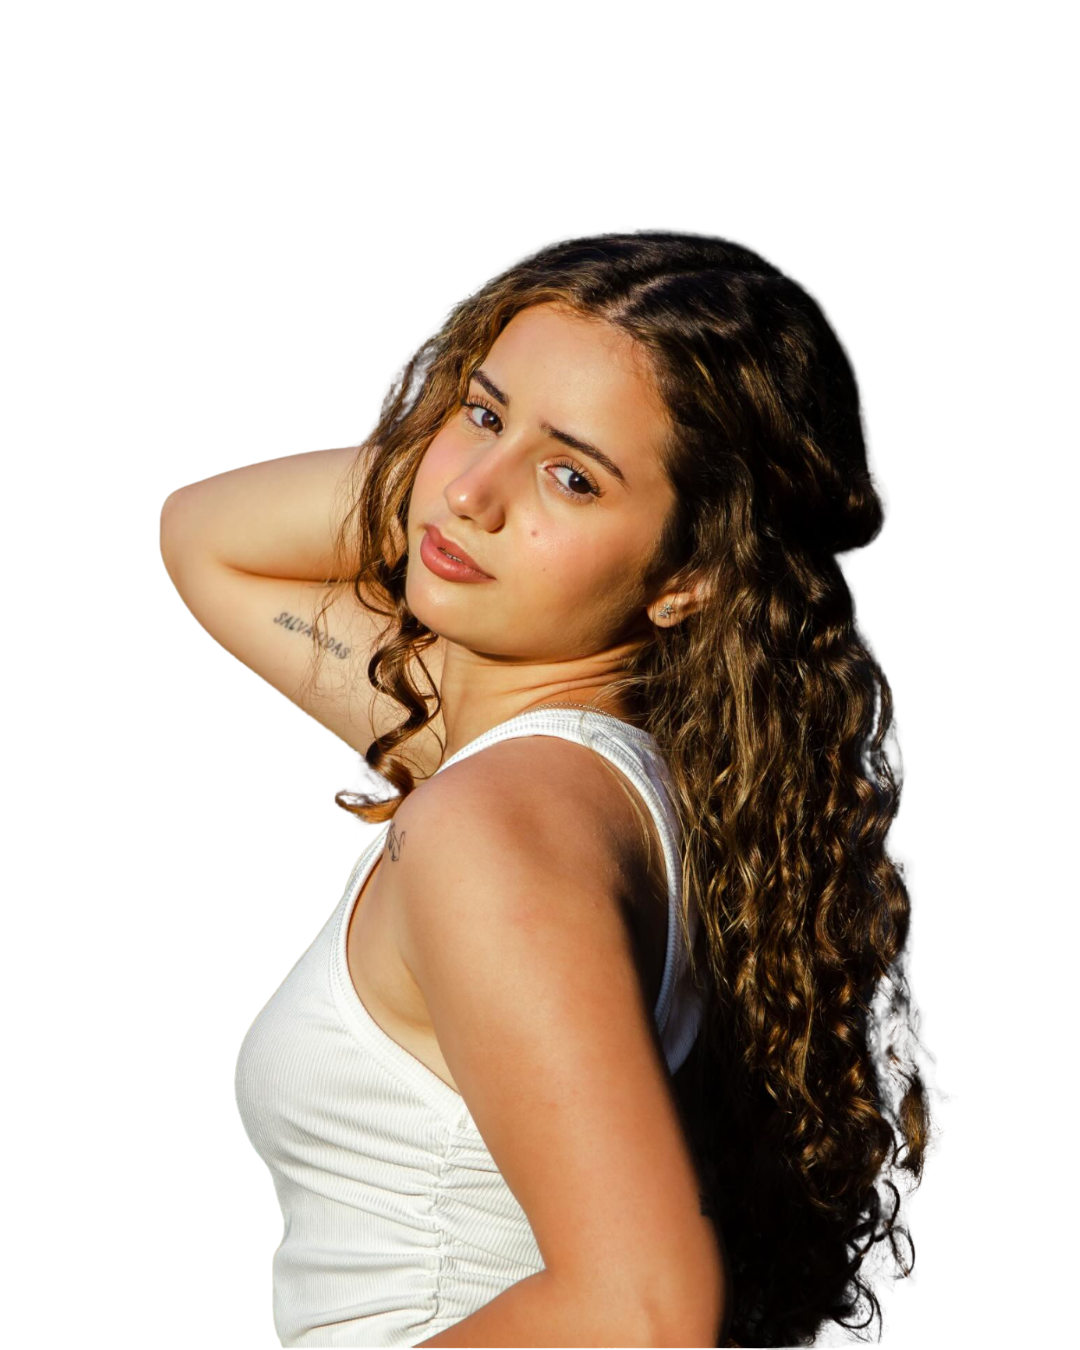
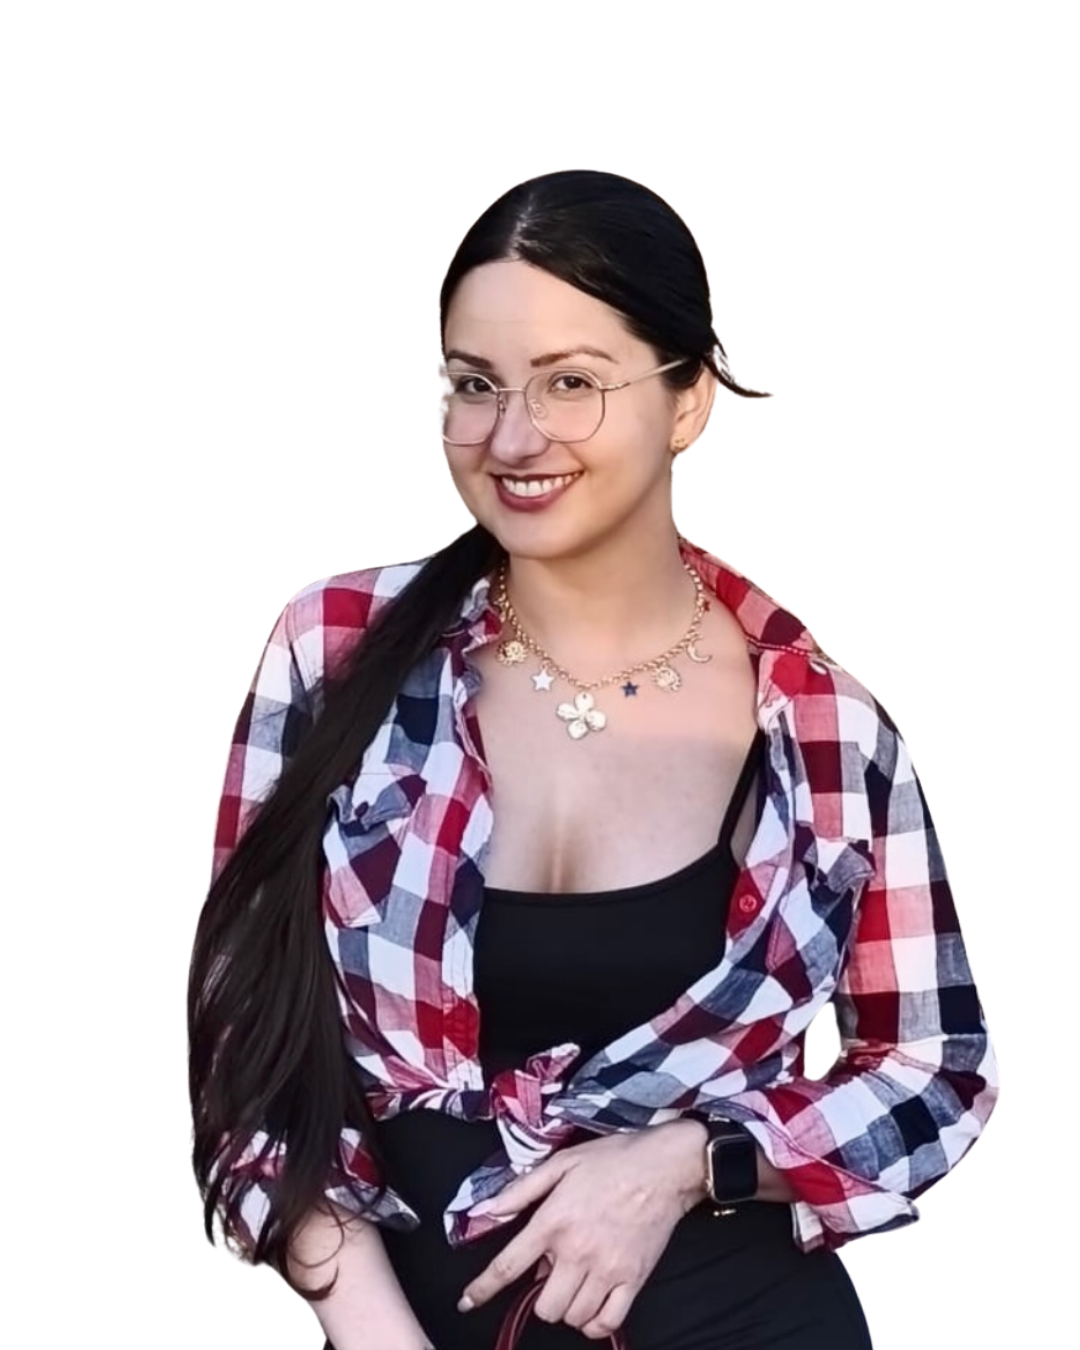
Update index.html to integrate Supabase for voting functionality, add fingerprint tracking, and enhance modal feedback for user interactions. Update .DS_Store files and image assets.

diff --git a/categorias/index.html b/categorias/index.html
@@ -19,6 +19,9 @@
     <meta name="twitter:title" content="Categorías — Cuba Content Awards">
     <meta name="twitter:image" content="/assets/images/og.png">
 
+    <script src="https://cdn.jsdelivr.net/npm/@supabase/supabase-js@2"></script>
+    <script src="https://openfpcdn.io/fingerprintjs/v4"></script>
+
     <style>
     @font-face {
         font-family: "Cal Sans";
@@ -608,29 +611,59 @@ const categorias = [
     },
 ];
 
+// ====== CONFIGURACIÓN ======
+// Cuando llegue el momento de abrir las votaciones oficialmente, cambia esto a true.
+const VOTACIONES_ABIERTAS = false;
+
+const SUPABASE_URL = 'https://ravkrqelszcjbrckgqum.supabase.co';
+const SUPABASE_KEY = 'sb_publishable_vgJitsj5SlLr91hrfdT7-w_JUb4g5R1';
+const _supabase = supabase.createClient(SUPABASE_URL, SUPABASE_KEY);
+
 // ====== ESTADO ======
 let activeCategoria = categorias[0].id;
 let selectedNominee = null;
+let fingerprint = null;
+let votosLocales = {}; // cache en memoria: { categoriaId: nominadoId }
 
-// Votos ya emitidos (localStorage — placeholder temporal, se sustituirá por sistema seguro)
-function getVotedCategorias() {
+// ====== FINGERPRINT ======
+async function initFingerprint() {
     try {
-        return JSON.parse(localStorage.getItem('cca_votos') || '{}');
-    } catch (e) { return {}; }
+        const fp = await FingerprintJS.load();
+        const result = await fp.get();
+        fingerprint = result.visitorId;
+    } catch (e) {
+        console.error('Error generando fingerprint:', e);
+        // Fallback simple si la librería falla por algún motivo
+        fingerprint = 'fallback-' + Math.random().toString(36).substring(2);
+    }
 }
-function setVoted(catId, nomineeId) {
-    const votos = getVotedCategorias();
-    votos[catId] = nomineeId;
-    localStorage.setItem('cca_votos', JSON.stringify(votos));
+
+// ====== CARGAR VOTOS YA EMITIDOS POR ESTE FINGERPRINT ======
+async function cargarVotosPropios() {
+    if (!fingerprint) return;
+    try {
+        const { data, error } = await _supabase
+            .from('votos')
+            .select('categoria, nominado_id')
+            .eq('fingerprint', fingerprint);
+
+        if (error) throw error;
+
+        votosLocales = {};
+        (data || []).forEach(v => {
+            votosLocales[v.categoria] = v.nominado_id;
+        });
+    } catch (e) {
+        console.error('Error cargando votos:', e);
+    }
 }
 
 // ====== RENDER PILLS ======
 function renderPills() {
     const wrap = document.getElementById('catPills');
-    const votos = getVotedCategorias();
     wrap.innerHTML = '';
     categorias.forEach(cat => {
-        const voted = !!votos[cat.id];
+        const voted = !!votosLocales[cat.id];
         const isActive = cat.id === activeCategoria;
         const pill = document.createElement('button');
         pill.className = 'cat-pill' + (isActive ? ' active' : '') + (voted ? ' voted' : '');
@@ -643,8 +676,7 @@ function renderPills() {
 // ====== RENDER NOMINEES ======
 function renderNominees() {
     const cat = categorias.find(c => c.id === activeCategoria);
-    const votos = getVotedCategorias();
-    const votedNomineeId = votos[cat.id] || null;
+    const votedNomineeId = votosLocales[cat.id] || null;
     const isLocked = !!votedNomineeId;
 
     document.getElementById('catTitle').textContent = cat.nombre;
@@ -676,7 +708,6 @@ function renderNominees() {
         grid.appendChild(card);
     });
 
-    // Reset selection bar if locked
     if (isLocked) {
         selectedNominee = null;
         hideVoteBar();
@@ -712,17 +743,91 @@ function hideVoteBar() {
 }
 
 // ====== CONFIRM VOTE ======
-function confirmVote() {
+async function confirmVote() {
     if (!selectedNominee) return;
-    // Por ahora las votaciones no están abiertas — mostramos el modal informativo.
-    // Cuando se abran oficialmente, aquí se llamará a Supabase para registrar el voto real
-    // y luego se ejecutaría: setVoted(activeCategoria, selectedNominee.id); renderPills(); renderNominees();
-    openModal();
+
+    if (!VOTACIONES_ABIERTAS) {
+        openModal('proximamente');
+        return;
+    }
+
+    const btn = document.querySelector('.btn-vote');
+    const originalText = btn.innerHTML;
+    btn.disabled = true;
+    btn.style.opacity = '0.6';
+    btn.textContent = 'Enviando...';
+
+    try {
+        const { error } = await _supabase.from('votos').insert([{
+            categoria: activeCategoria,
+            nominado_id: selectedNominee.id,
+            nominado_nombre: selectedNominee.nombre,
+            fingerprint: fingerprint,
+            user_agent: navigator.userAgent
+        }]);
+
+        if (error) {
+            // Código 23505 = violación de índice único -> ya había votado en esa categoría
+            if (error.code === '23505') {
+                openModal('yavoto');
+            } else {
+                throw error;
+            }
+        } else {
+            votosLocales[activeCategoria] = selectedNominee.id;
+            renderPills();
+            renderNominees();
+            hideVoteBar();
+            openModal('exito');
+        }
+    } catch (e) {
+        console.error('Error al votar:', e);
+        openModal('error');
+    } finally {
+        btn.disabled = false;
+        btn.style.opacity = '1';
+        btn.innerHTML = originalText;
+    }
 }
 
 // ====== MODAL ======
-function openModal() {
+const modalContent = {
+    proximamente: {
+        icon: `<svg viewBox="0 0 24 24" fill="none" stroke="currentColor" stroke-width="2" stroke-linecap="round" stroke-linejoin="round"><circle cx="12" cy="12" r="10"/><polyline points="12 6 12 12 16 14"/></svg>`,
+        title: '¡Las votaciones aún no están abiertas!',
+        desc: 'Estamos ultimando todo para que puedas votar por tu favorito muy pronto. Vuelve en los próximos días 🇨🇺'
+    },
+    exito: {
+        icon: `<svg viewBox="0 0 24 24" fill="none" stroke="currentColor" stroke-width="2" stroke-linecap="round" stroke-linejoin="round"><path d="M20 6L9 17l-5-5"/></svg>`,
+        title: '¡Voto registrado!',
+        desc: 'Gracias por apoyar a tu favorito. Ya puedes votar en las demás categorías.'
+    },
+    yavoto: {
+        icon: `<svg viewBox="0 0 24 24" fill="none" stroke="currentColor" stroke-width="2" stroke-linecap="round" stroke-linejoin="round"><circle cx="12" cy="12" r="10"/><line x1="12" y1="8" x2="12" y2="12"/><line x1="12" y1="16" x2="12.01" y2="16"/></svg>`,
+        title: 'Ya votaste en esta categoría',
+        desc: 'Solo se permite un voto por categoría. ¡Puedes seguir votando en las demás!'
+    },
+    error: {
+        icon: `<svg viewBox="0 0 24 24" fill="none" stroke="currentColor" stroke-width="2" stroke-linecap="round" stroke-linejoin="round"><circle cx="12" cy="12" r="10"/><line x1="12" y1="8" x2="12" y2="12"/><line x1="12" y1="16" x2="12.01" y2="16"/></svg>`,
+        title: 'Algo salió mal',
+        desc: 'No pudimos registrar tu voto. Revisa tu conexión e intenta de nuevo.'
+    }
+};
+
+function openModal(type = 'proximamente') {
+    const content = modalContent[type];
+    document.querySelector('.modal-icon').innerHTML = content.icon;
+    document.querySelector('.modal-title').textContent = content.title;
+    document.querySelector('.modal-desc').textContent = content.desc;
     document.getElementById('modalOverlay').classList.add('show');
+
+    if (type === 'yavoto' || type === 'error') {
+        document.querySelector('.modal-icon').style.background = 'rgba(14,36,120,0.1)';
+        document.querySelector('.modal-icon svg').style.color = 'var(--navy)';
+    } else {
+        document.querySelector('.modal-icon').style.background = 'rgba(14,36,120,0.1)';
+        document.querySelector('.modal-icon svg').style.color = 'var(--navy)';
+    }
 }
 function closeModal() {
     document.getElementById('modalOverlay').classList.remove('show');
@@ -732,8 +837,15 @@ document.getElementById('modalOverlay').addEventListener('click', (e) => {
 });
 
 // ====== INIT ======
-renderPills();
-renderNominees();
+async function init() {
+    renderPills();
+    renderNominees();
+    await initFingerprint();
+    await cargarVotosPropios();
+    renderPills();
+    renderNominees();
+}
+init();
 </script>
 
 </body>
